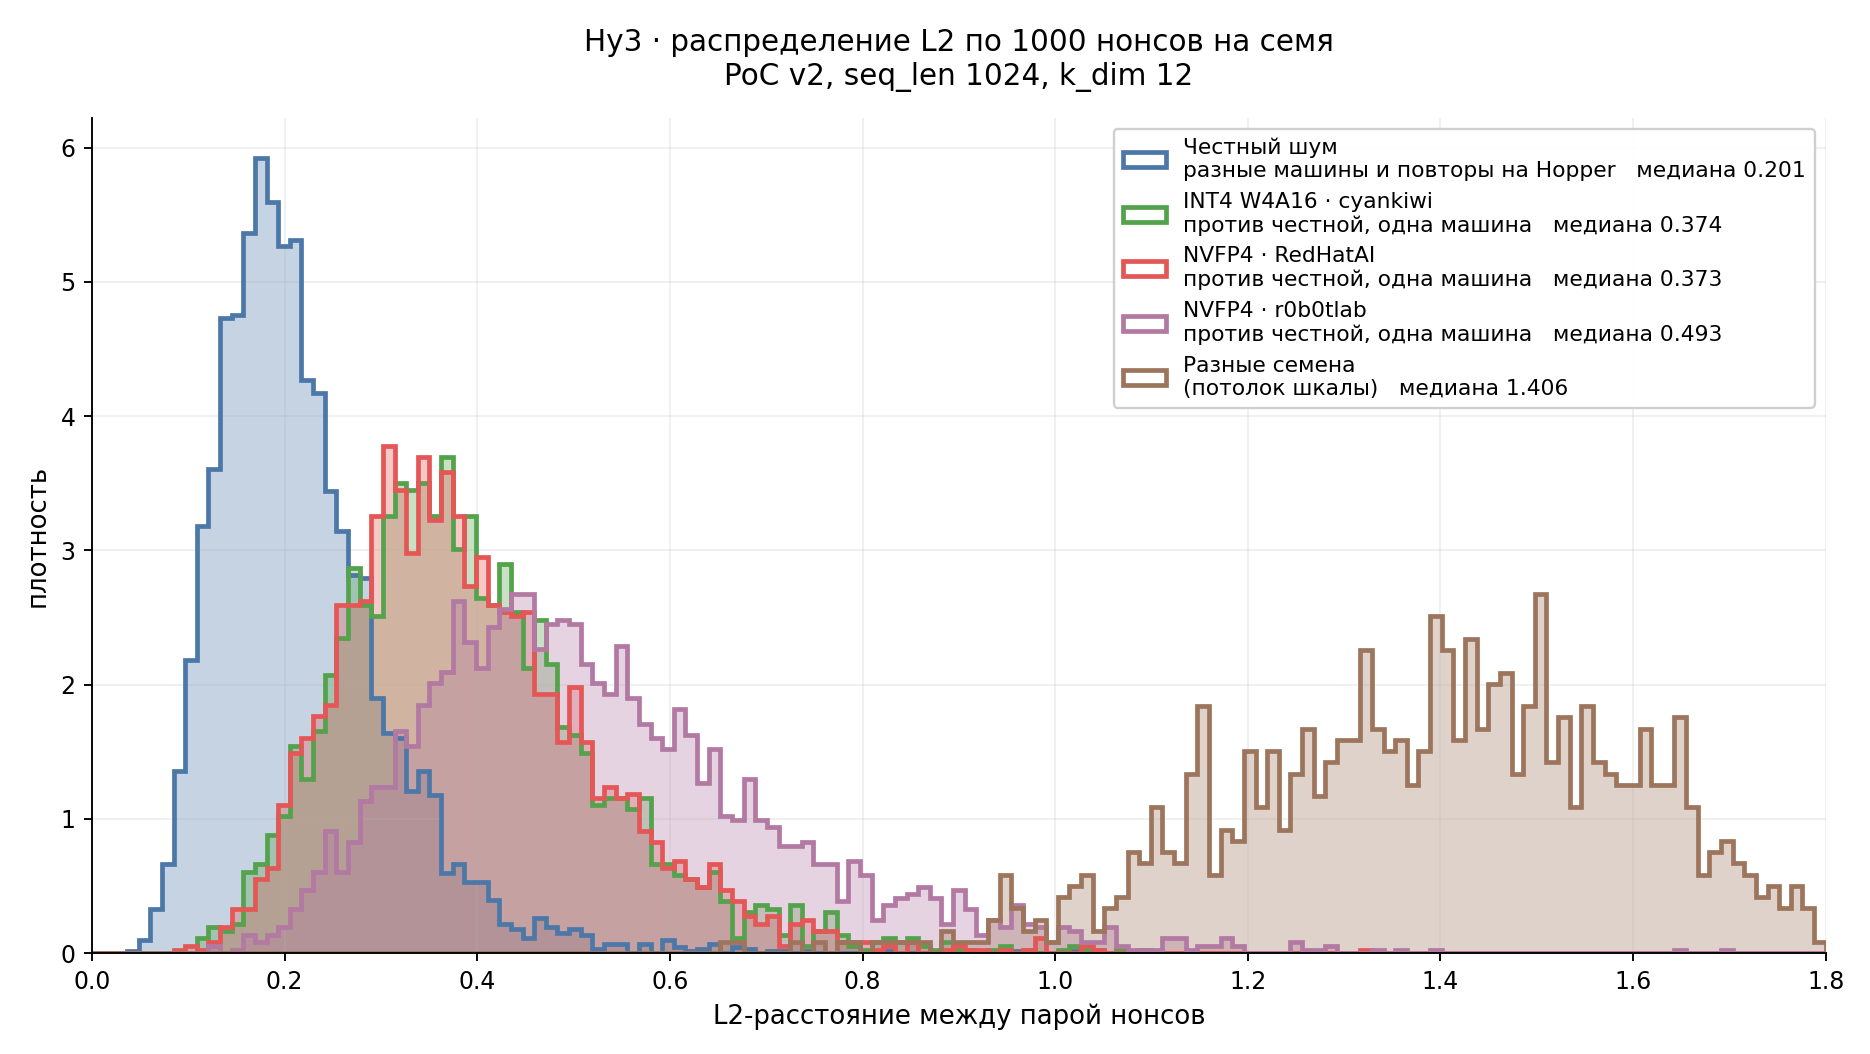
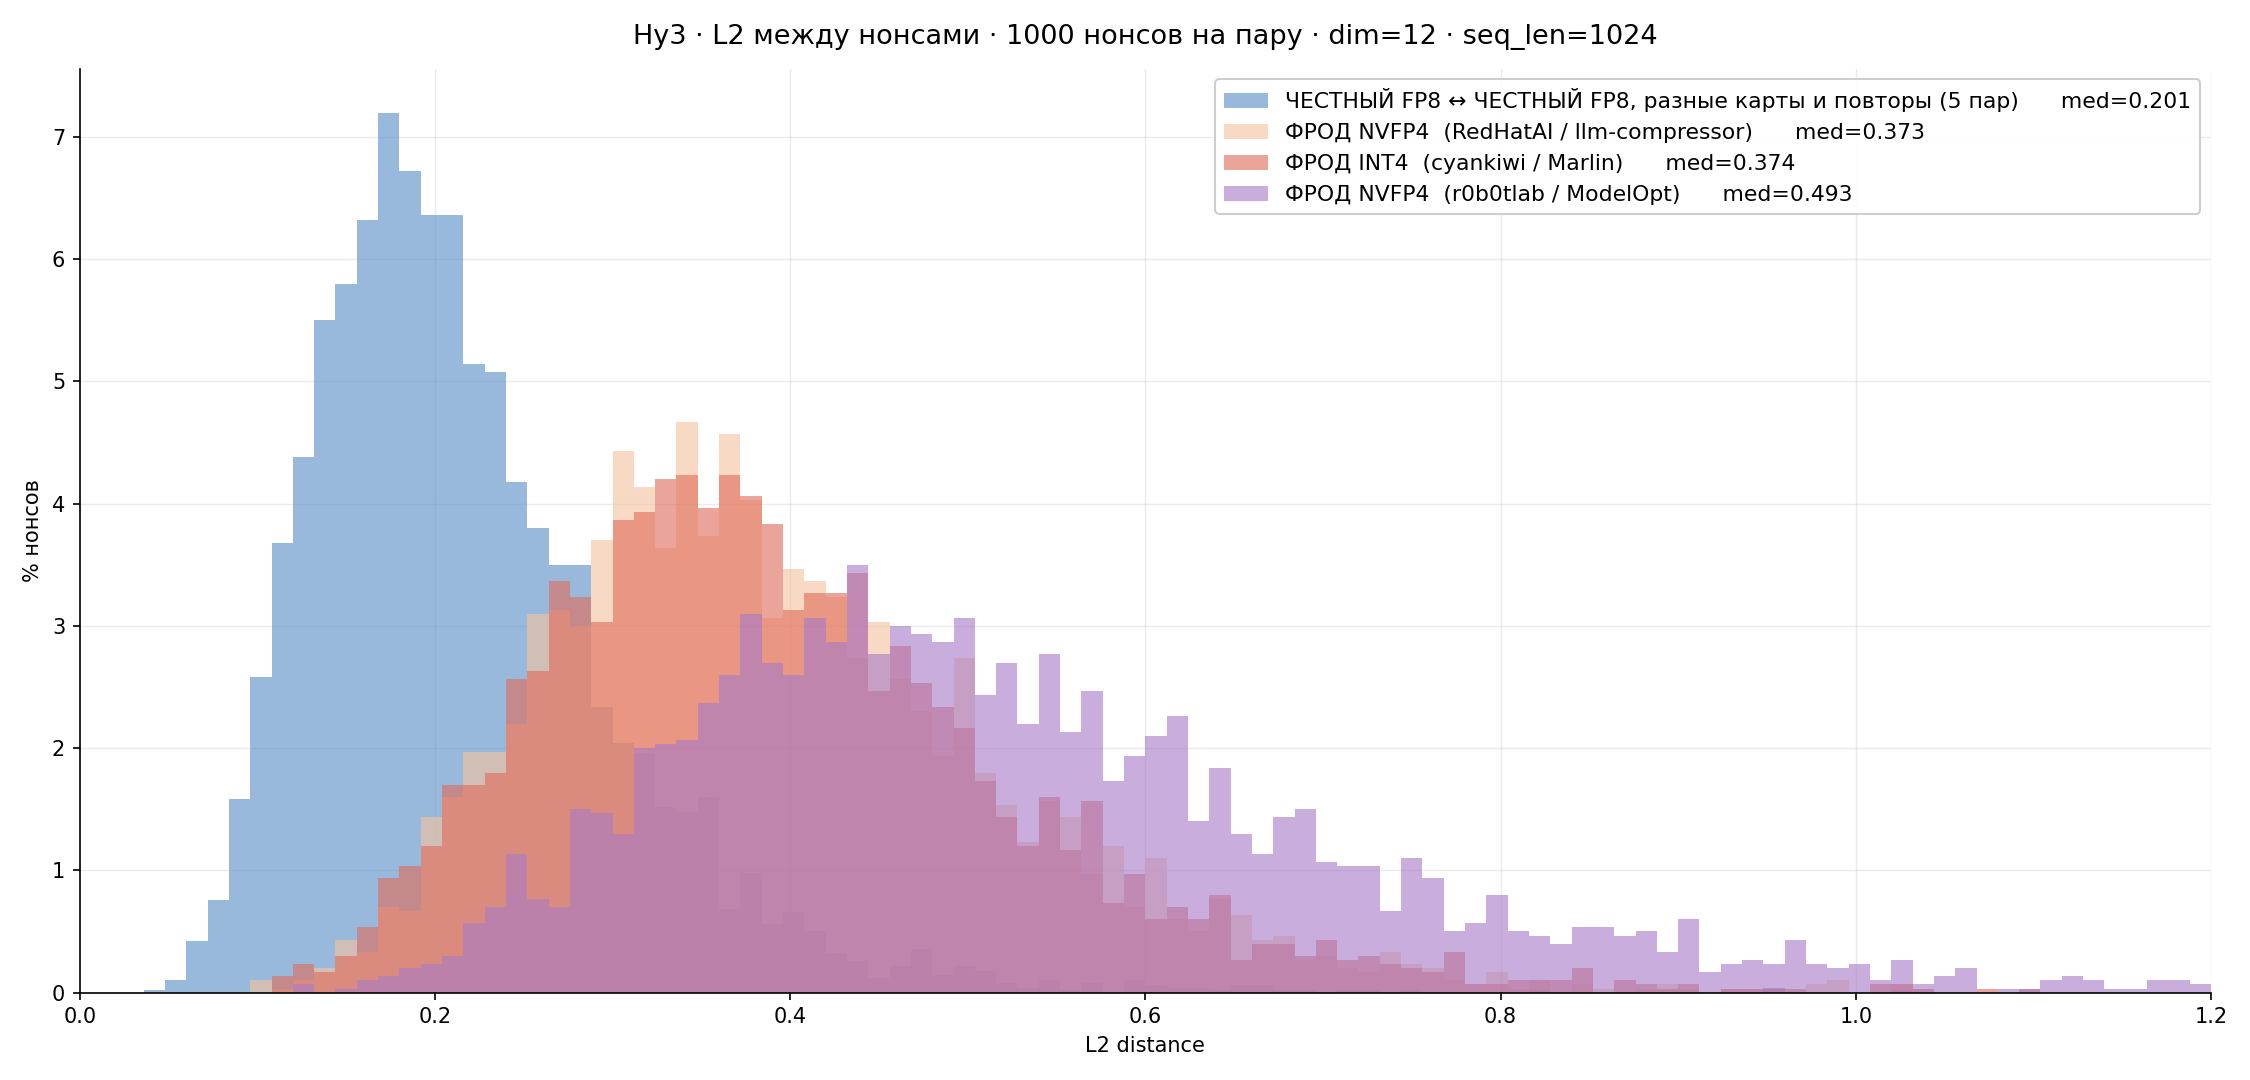
fix(hy3-summary): match the DeepSeek L2 chart presentation (% of nonces, med= legend, filled bars)

diff --git a/2026-08/hy3-summary/scripts/plot_l2_distributions.py b/2026-08/hy3-summary/scripts/plot_l2_distributions.py
@@ -1,6 +1,9 @@
 #!/usr/bin/env python3
 """L2 distance distributions for Hy3 PoC nonces.
 
+Same presentation as the DeepSeek-V4-Flash L2 charts: filled histograms, y in % of
+nonces, medians in the legend, no threshold lines.
+
 Every curve pools 1000 nonces per seed over the seeds available for that comparison.
 Blackwell same-machine repeats are excluded — they are a spike at exactly zero
 (1000/1000 bit-identical) and only flatten the axis. Hopper repeats are NOT a spike:
@@ -49,57 +52,53 @@ def pooled(pairs):
 
 S = ("s1", "s2", "s3")
 series = [
-    ("Честный шум\nразные машины и повторы на Hopper",
+    ("ЧЕСТНЫЙ FP8 ↔ ЧЕСТНЫЙ FP8, разные карты и повторы (5 пар)",
      [(f"{H100}/nonces_fp8_s1.json", f"{H200}/nonces_fp8_s1.json"),
       (f"{H100}/nonces_fp8_s1.json", f"{B300}/nonces_fp8_s1.json"),
       (f"{B200}/nonces_fp8_s1.json", f"{B300}/nonces_fp8_s1.json"),
       (f"{H200}/nonces_fp8_s1.json", f"{H200}/nonces_fp8_s1_r2.json"),
       (f"{H100}/nonces_fp8_s1.json", f"{H100}/nonces_fp8_s1_r2.json")],
-     "#4C78A8"),
-    ("INT4 W4A16 · cyankiwi\nпротив честной, одна машина",
-     [(f"{INT4}/ref_nonces_fp8_{s}.json", f"{INT4}/nonces_int4_{s}.json") for s in S],
-     "#54A24B"),
-    ("NVFP4 · RedHatAI\nпротив честной, одна машина",
+     "#5A8FC7"),
+    ("ФРОД NVFP4  (RedHatAI / llm-compressor)",
      [(f"{NVH}/ref_nonces_fp8_{s}.json", f"{NVH}/nonces_nvfp4_{s}.json") for s in S],
-     "#E45756"),
-    ("NVFP4 · r0b0tlab\nпротив честной, одна машина",
+     "#F4C4A0"),
+    ("ФРОД INT4  (cyankiwi / Marlin)",
+     [(f"{INT4}/ref_nonces_fp8_{s}.json", f"{INT4}/nonces_int4_{s}.json") for s in S],
+     "#E06C5A"),
+    ("ФРОД NVFP4  (r0b0tlab / ModelOpt)",
      [(f"{NVR}/ref_nonces_fp8_{s}.json", f"{NVR}/nonces_nvfp4_{s}.json") for s in S],
-     "#B279A2"),
-    ("Разные семена\n(потолок шкалы)",
-     [(f"{H200}/nonces_fp8_s1.json", f"{H200}/nonces_fp8_s2.json")],
-     "#9D755D"),
+     "#A87BC7"),
 ]
 
-fig, ax = plt.subplots(figsize=(11, 6.2))
-bins = np.linspace(0, 1.8, 150)
+XMAX = 1.2
+fig, ax = plt.subplots(figsize=(15, 7.2))
+bins = np.arange(0, XMAX + 0.012, 0.012)
 stats = []
 for label, pairs, colour in series:
     d = pooled(pairs)
     if not len(d):
-        print("SKIP (no data):", label.replace("\n", " "))
+        print("SKIP (no data):", label)
         continue
-    ax.hist(d, bins=bins, density=True, histtype="stepfilled",
-            alpha=0.32, color=colour)
-    ax.hist(d, bins=bins, density=True, histtype="step",
-            linewidth=2.0, color=colour,
-            label=f"{label}   медиана {np.median(d):.3f}")
-    stats.append((label.replace("\n", " "), len(d), float(np.median(d)),
-                  float((d > 0.4).mean() * 100)))
+    ax.hist(d, bins=bins, weights=np.full(len(d), 100.0 / len(d)),
+            color=colour, alpha=0.62, edgecolor="none",
+            label=f"{label}      med={np.median(d):.3f}")
+    stats.append((label, len(d), float(np.median(d)), float((d > 0.4).mean() * 100)))
 
-ax.set_xlabel("L2-расстояние между парой нонсов", fontsize=11)
-ax.set_ylabel("плотность", fontsize=11)
-ax.set_title("Hy3 · распределение L2 по 1000 нонсов на семя\n"
-             "PoC v2, seq_len 1024, k_dim 12", fontsize=12.5, pad=14)
-ax.legend(fontsize=9.2, loc="upper right", framealpha=0.94)
-ax.grid(alpha=0.22, linewidth=0.7)
-ax.set_xlim(0, 1.8)
+ax.set_xlabel("L2 distance", fontsize=10)
+ax.set_ylabel("% нонсов", fontsize=10)
+ax.set_title("Hy3 · L2 между нонсами · 1000 нонсов на пару · dim=12 · seq_len=1024",
+             fontsize=13, pad=12)
+ax.legend(fontsize=10.5, loc="upper right", framealpha=0.95)
+ax.grid(alpha=0.25, linewidth=0.7)
+ax.set_axisbelow(True)
+ax.set_xlim(0, XMAX)
 for sp in ("top", "right"):
     ax.spines[sp].set_visible(False)
 fig.tight_layout()
 out = os.path.join(os.path.dirname(os.path.abspath(__file__)), "..", "artifacts",
                    "l2_distributions_hy3.png")
-fig.savefig(out, dpi=170)
+fig.savefig(out, dpi=150)
 print("saved", out)
-print(f"\n{'comparison':52} {'n':>6} {'median':>8} {'>0.4 %':>8}")
+print(f"\n{'comparison':60} {'n':>6} {'median':>8} {'>0.4 %':>8}")
 for name, n, med, pct in stats:
-    print(f"{name[:52]:52} {n:6d} {med:8.3f} {pct:8.2f}")
+    print(f"{name[:60]:60} {n:6d} {med:8.3f} {pct:8.2f}")

diff --git a/2026-08/hy3-summary/README.md b/2026-08/hy3-summary/README.md
@@ -28,11 +28,13 @@ curve.
 
 | comparison | n | median | >0.40 |
 |---|---:|---:|---:|
-| honest noise (cross-machine + Hopper repeats) | 5000 | **0.201** | 3.58 % |
-| INT4 W4A16 · `cyankiwi` vs honest | 3000 | 0.374 | 42.07 % |
-| NVFP4 · `RedHatAI` vs honest | 3000 | 0.373 | 41.77 % |
-| NVFP4 · `r0b0tlab` vs honest | 3000 | **0.493** | 73.07 % |
-| different seeds (scale ceiling) | 1000 | 1.406 | 100 % |
+| honest FP8 ↔ honest FP8, different cards and repeats (5 pairs) | 5000 | **0.201** | 3.58 % |
+| fraud NVFP4 (`RedHatAI` / llm-compressor) | 3000 | 0.373 | 41.77 % |
+| fraud INT4 (`cyankiwi` / Marlin) | 3000 | 0.374 | 42.07 % |
+| fraud NVFP4 (`r0b0tlab` / ModelOpt) | 3000 | **0.493** | 73.07 % |
+
+For scale, two runs on **different seeds** sit at 1.406 — that is the ceiling of the metric,
+left off the plot to keep the axis readable.
 
 The two frauds built with different toolchains but the same NVFP4 scheme sit 0.12 apart,
 while a completely different quantisation (INT4 W4A16, BF16 activations, MARLIN) lands on top
